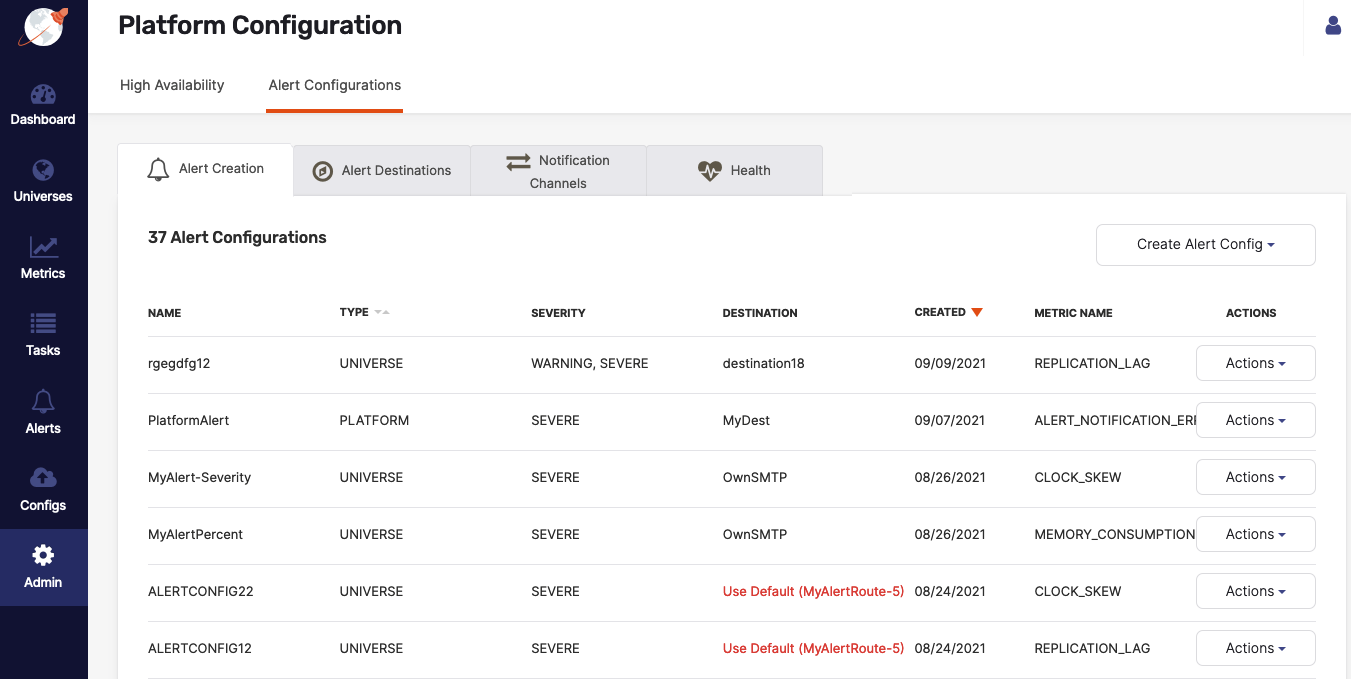
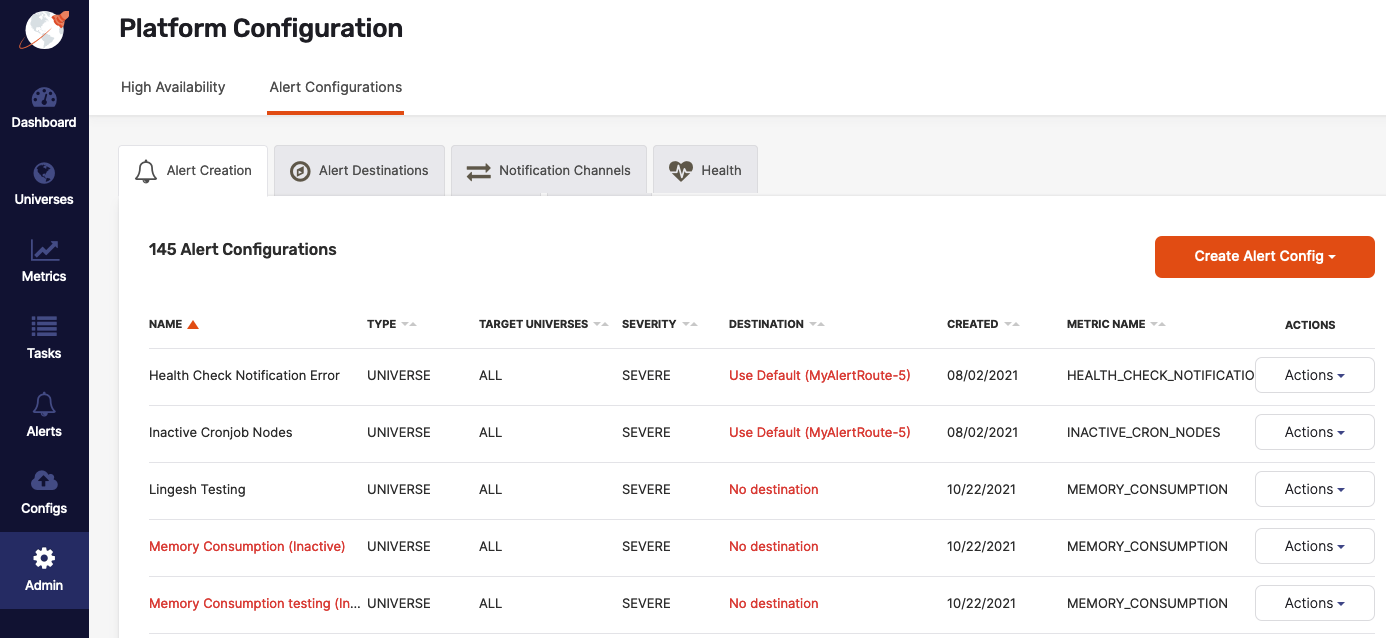
Added content (#10532)

diff --git a/docs/content/latest/yugabyte-platform/configure-yugabyte-platform/set-up-alerts-health-check.md b/docs/content/latest/yugabyte-platform/configure-yugabyte-platform/set-up-alerts-health-check.md
@@ -18,7 +18,10 @@ You can access Yugabyte Platform health monitor and configure alerts by navigati
 
 ![Configure alerts](/images/yp/config-alerts1.png)
 
-The **Alert Creation** view allows you to create new alerts for specific universes or for your instance of Yugabyte Platform, as well as configure or delete existing alerts.
+The **Alert Creation** view allows you to perform the following for specific universes or for your instance of Yugabyte Platform: 
+
+- Create new alerts.
+- Configure, delete, activate or deactivate existing alerts via **Actions**.
 
 Regardless of the alert level, you create and configure an alert as follows: 
 
@@ -30,9 +33,11 @@ Regardless of the alert level, you create and configure an alert as follows:
 
   <br><br>
 
-  Templates are available for alerts related to Yugabyte Platform operations, YugabyteDB operations, as well as YSQL and YCQL performance. 
+  Templates are available for alerts related to Yugabyte Platform operations, YugabyteDB operations, as well as YSQL and YCQL performance.<br>
 
-  The **Threshold** field allows you to define the value (for example, number of milliseconds, resets, errors, nodes) that must be reached in order to trigger the alert.
+  The **Active** field allows you to define the alert as initially active or inactive.<br>
+
+  The **Threshold** field allows you to define the value (for example, number of milliseconds, resets, errors, nodes) that must be reached in order to trigger the alert.<br>
 
   The **Destination** field allows you to select one of the previously defined recipients of the alert. 
 
